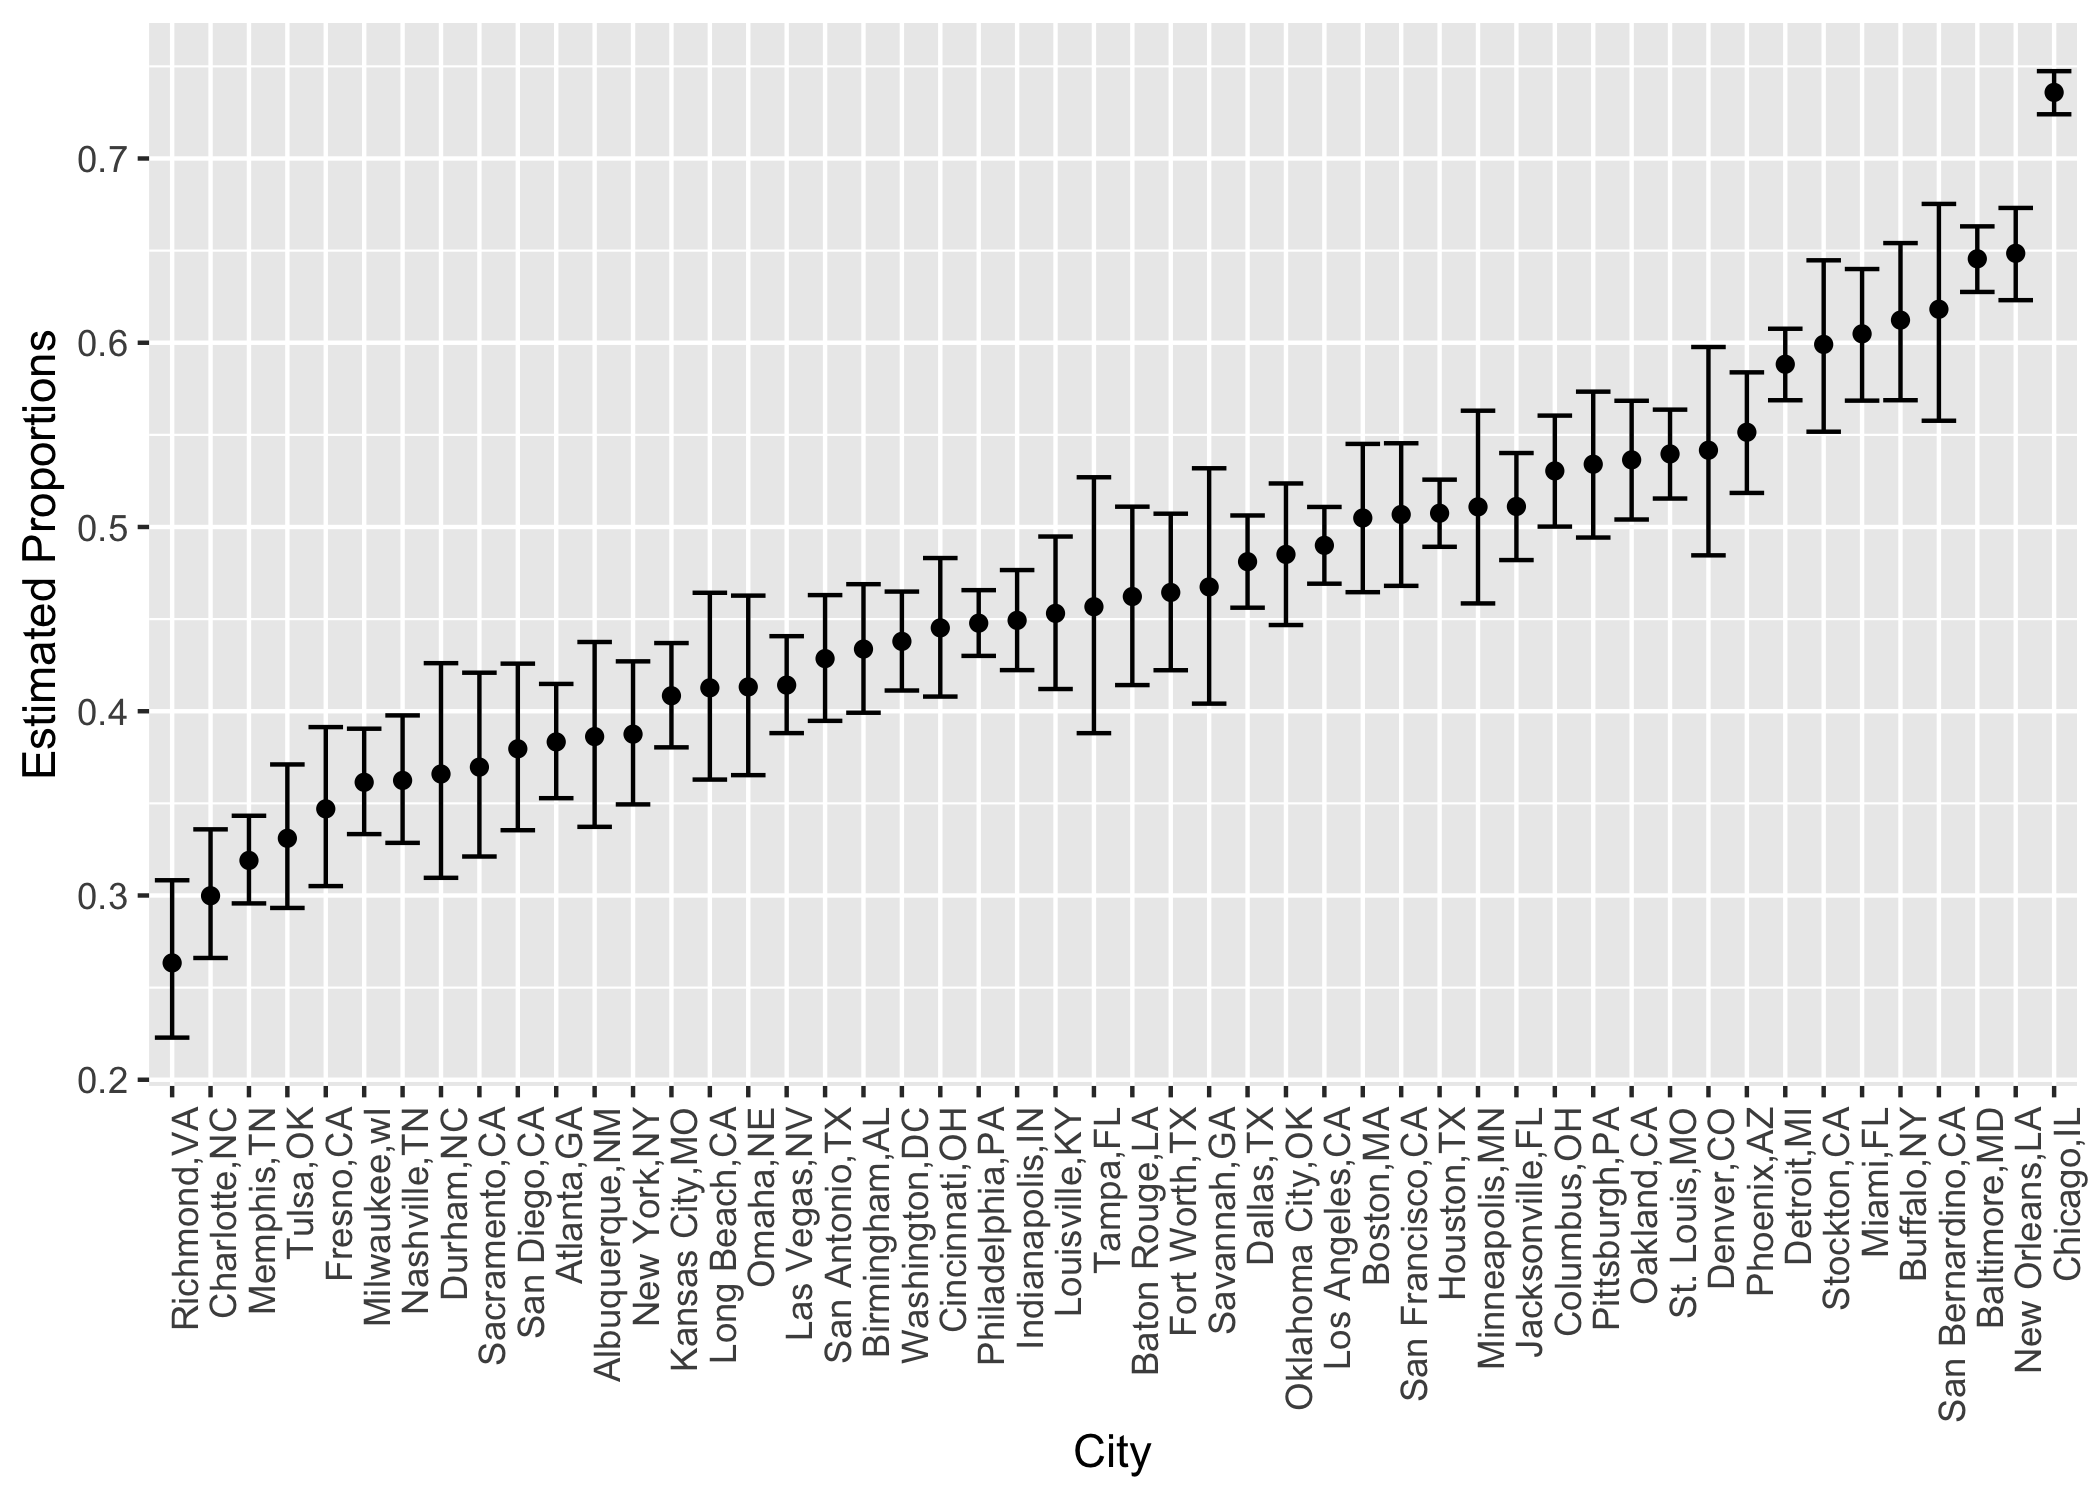
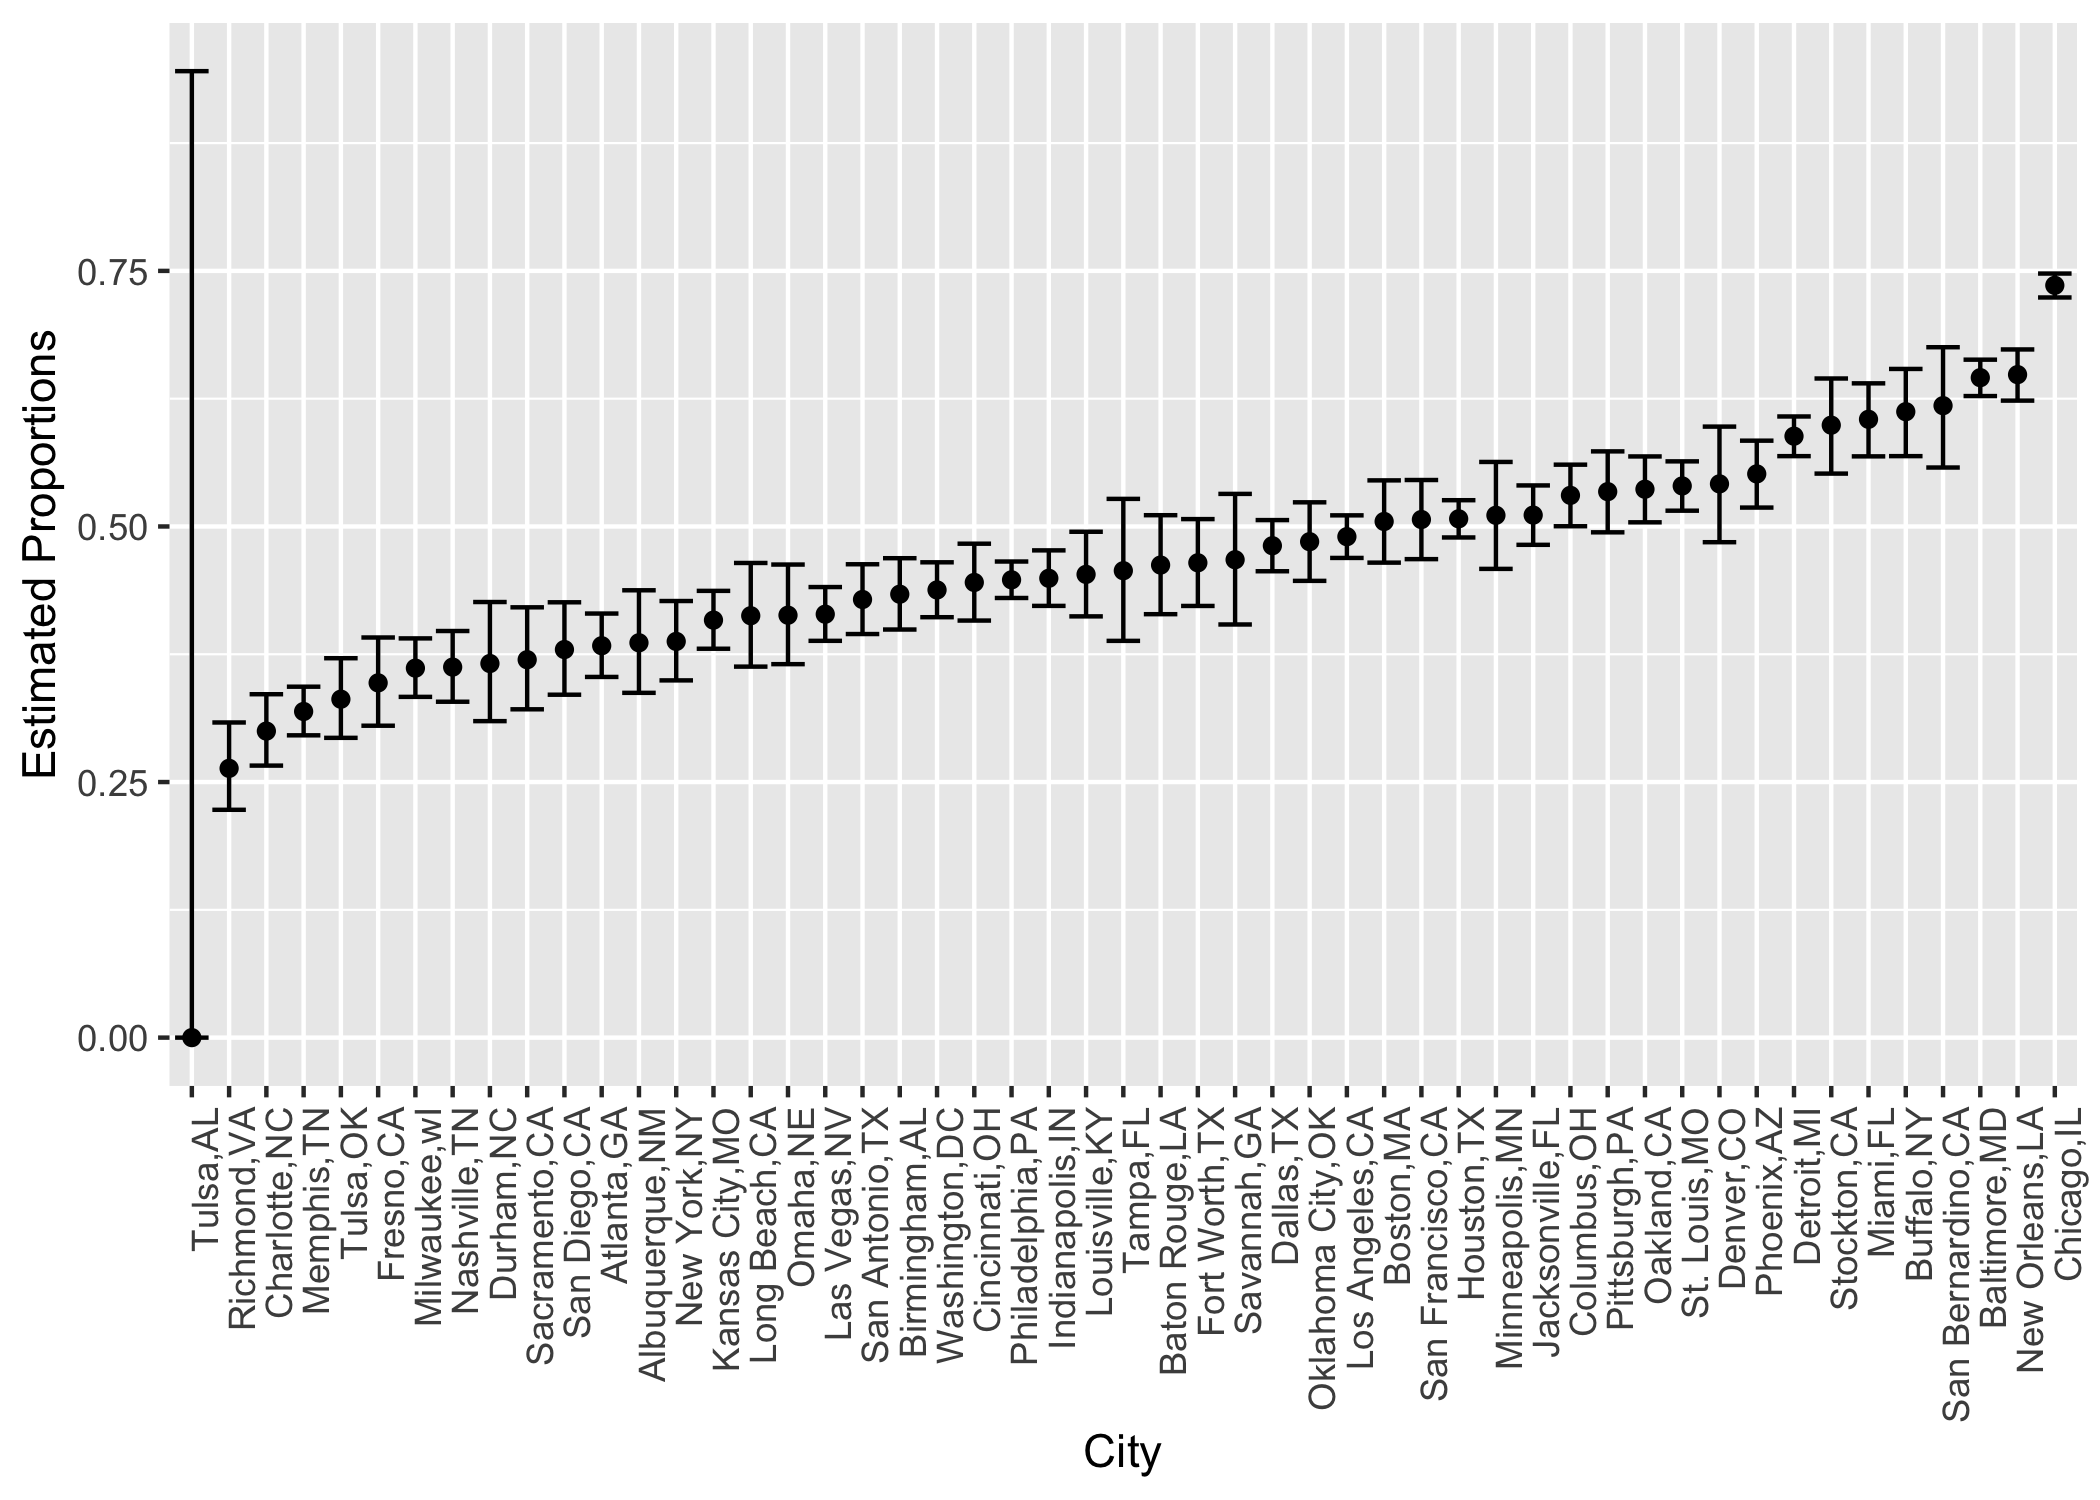
add back the Tulsa, AL case

Changed region(s): [[0.031, 0.0, 0.9905, 0.9507], [0.4952, 0.9507, 0.5571, 0.9813], [0.9286, 0.92, 0.9595, 0.9507]]

diff --git a/p8105_hw5_js5354.md b/p8105_hw5_js5354.md
@@ -42,9 +42,6 @@ participant_data %>%
   select(-remove_1, -remove_2) %>% 
   mutate(group = as.factor(group)) %>% 
   arrange(group, ID, week)
-
-
-# Is it necessary to spread the dataset?? 
 ```
 
 ``` r
